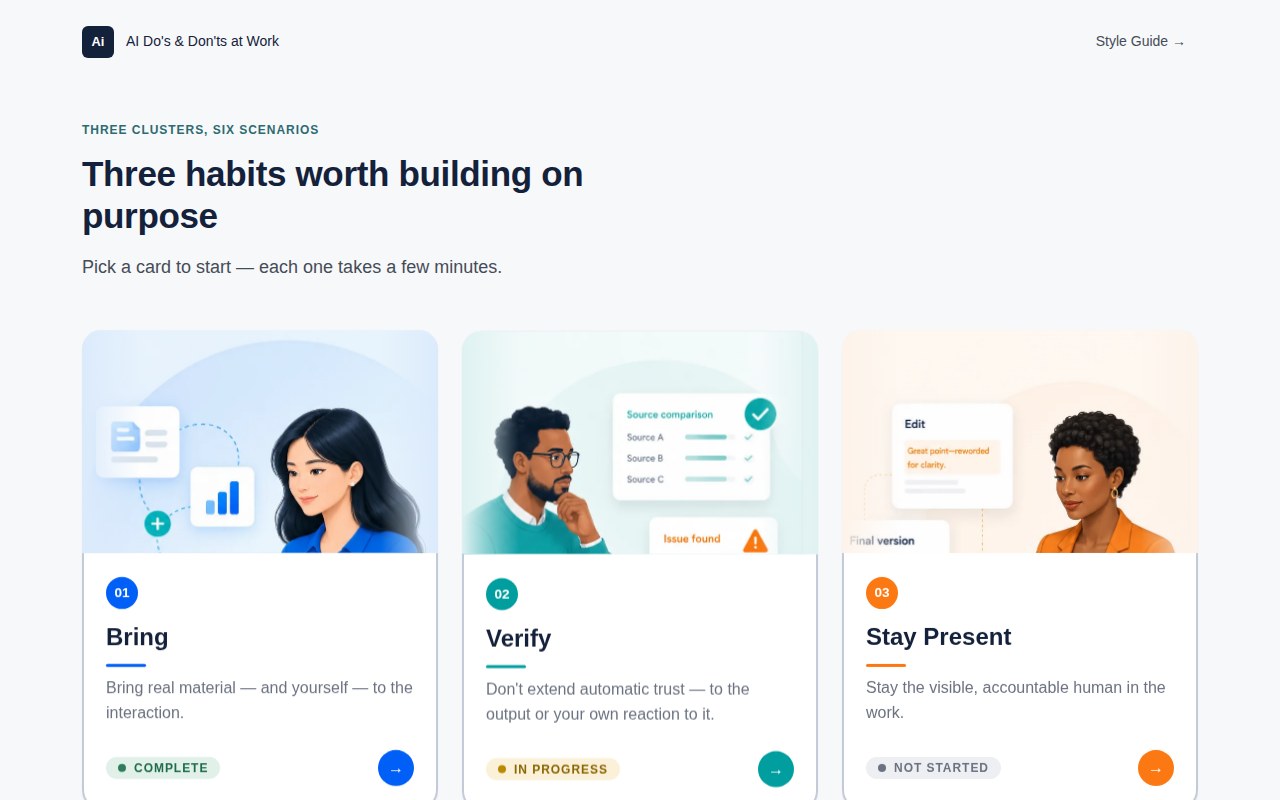
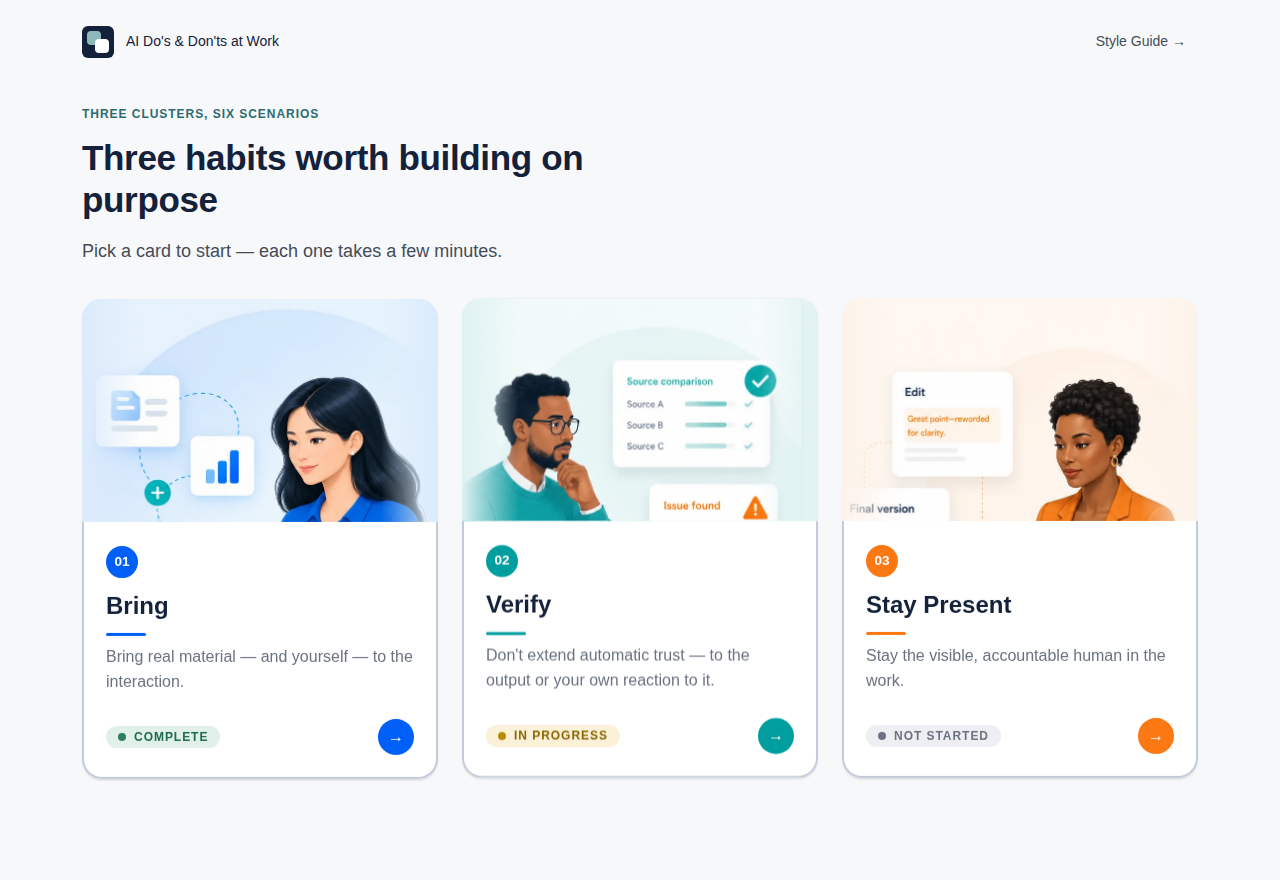
Lay the module out landscape for embedding
Seen in Rise, the module was the wrong shape for its frame. Every screen
stacked its illustration above its copy, so at 1100x700 the info beat ran
1415px and more than a whole frame of it sat below the fold — each screen
opened already scrolled.

Above 900px the illustration moves beside the copy instead of above it, so
the two share the height rather than adding to it. Done with grid on the
view itself rather than by rearranging the markup, so DOM order stays the
reading order; below 900px nothing changes.

With the rhythm compressed to match a fixed frame — trailing padding, the
gaps between blocks, and one step off the shared answer/point card padding —
every screen now fits 1100x880 with nothing cut off:

              stacked   landscape
  cover          777       880 (fills)
  overview       846       880 (fills)
  info beat     1415       880
  scenario      1280       880
  + feedback    1459       880

A floor at the frame height also stops the card changing shape from screen
to screen, so the screens read as fixed slides rather than as cards that end
wherever their copy runs out.

Style-guide screenshots re-shot in the new layout.

Claude-Session: https://claude.ai/code/session_01GgfYmkSCdz6Ee33Nn8AJpV

diff --git a/css/styles.css b/css/styles.css
@@ -740,3 +740,120 @@ a.brand:focus-visible { outline: none; box-shadow: var(--shadow-focus); border-r
 .callout.accent .callout-icon { background: var(--color-sage-600); }
 
 /* ---- Motion helpers ---- */
+
+/* ==========================================================================
+   Landscape
+   Embedded — in Rise, or any iframe — the frame is wide and short, and these
+   screens stacked are the wrong shape for it: at 1100x700 the info beat ran
+   1415px, so more than a whole frame of it sat below the fold and every
+   screen opened on a scroll.
+
+   Side by side, the illustration and the copy share the height instead of
+   adding to it. Done with grid on the view itself rather than by rearranging
+   the markup, so the DOM order stays the reading order for anyone using a
+   screen reader or arriving with CSS off.
+
+   Scoped to .is-active because views are shown and hidden with display, and
+   a bare .info-beat { display: grid } would light up all three at once.
+   ========================================================================== */
+@media (min-width: 900px) {
+  /* the column can afford to be wider once the art is beside it, not under it */
+  .section-inner { max-width: 1100px; }
+
+  /* Fill the frame. Sized to content, each screen ended wherever its copy ran
+     out — the completion screen closed 200px above the fold while the info
+     beat ran past it, so the card visibly changed shape from screen to
+     screen. A floor at the frame height makes them read as fixed slides;
+     anything taller still grows past it and scrolls.
+     Scoped to the expanded section: a collapsed .card-section holds one of
+     these too, and a floor there would blow out the overview grid. */
+  .card.is-expanded .section-inner { min-height: calc(100vh - 2 * var(--space-6)); }
+  /* .card-section carries min-height:100% for the stacked layout. Left on, it
+     stacks with the floor above: the inner's 24px top margin collapses out
+     through the section (no padding or border to stop it), offsetting a box
+     that is still a full frame tall, so every screen overflowed by exactly
+     that margin. The inner sets the height here, so the section doesn't. */
+  .card.is-expanded .card-section { min-height: 0; }
+
+  .section-content.is-active.info-beat,
+  .section-content.is-active.scenario,
+  .section-content.is-active.section-complete,
+  .cover-inner {
+    display: grid;
+    grid-template-columns: minmax(0, 1fr) minmax(0, 34%);
+    column-gap: var(--space-12);
+    align-content: start;
+  }
+  /* everything is copy except the illustration */
+  .section-content.is-active.info-beat > *,
+  .section-content.is-active.scenario > *,
+  .section-content.is-active.section-complete > *,
+  .cover-inner > * { grid-column: 1; }
+
+  .section-content.is-active.info-beat > .banner-wrap,
+  .section-content.is-active.scenario > .banner-wrap,
+  .section-content.is-active.section-complete > .banner-wrap,
+  .cover-inner > .cover-art {
+    grid-column: 2;
+    /* `1 / -1` does NOT do what it looks like here. -1 counts back from the
+       end of the EXPLICIT grid, and these grids declare columns only, so it
+       resolved to row 1 and the illustration sat in the first row alone —
+       forcing that row to the illustration's full height and stretching the
+       scenario's meta row to 432px to match. An explicit span reaches across
+       the implicit rows the copy actually creates; the extras collapse to
+       zero. */
+    grid-row: 1 / span 99;
+    align-self: center;
+    /* margin:0, not just the block margins. .banner-wrap centres itself with
+       `margin: 0 auto`, and auto side-margins on a grid item size it to its
+       content — which container-type: inline-size defines as zero. Left in,
+       the illustration collapsed to 0x0 and the column rendered empty. */
+    margin: 0;
+    width: 100%;
+  }
+
+  /* the completion screen centres itself when it is a single column; beside
+     an illustration that reads as a stray indent, so it left-aligns like the
+     other two */
+  .section-content.is-active.section-complete { text-align: left; padding-top: var(--space-12); }
+  .section-content.is-active.section-complete .badge-check { margin-left: 0; }
+  .section-content.is-active.section-complete .actions { justify-content: flex-start; }
+
+  /* A button sized itself to its label as a block-flow child; as a grid item
+     it stretches to the track, and "Start the scenarios" turned into a 604px
+     full-bleed bar. Only the info beat's CTA is a direct child — the other
+     two views wrap theirs in a flex .actions row, which already sizes them. */
+  .section-content.is-active > .btn { justify-self: start; }
+
+  .cover-inner { max-width: 1040px; text-align: left; align-content: center; }
+  .cover-inner > .cover-art { max-width: none; }
+  .cover-actions { justify-content: flex-start; }
+
+  /* Vertical rhythm, compressed.
+     Stacked, these gaps are spent out of a scroll that has more where that
+     came from. In a fixed frame they are the difference between a screen
+     that lands and a screen that opens already cut off: the info beat spends
+     152px on the margins between its six blocks alone. Every value here is
+     one or two steps down the existing space scale rather than a new number,
+     so the rhythm compresses without changing proportion. */
+  .section-inner {
+    padding-bottom: var(--space-8);
+    /* The answer/point card padding, one step down. Both objects read off
+       this same token by design, so it keeps them identical to each other
+       while taking ~8px off each of the four options and the four point
+       cards — the two blocks that decide whether the scenario and the info
+       beat land inside the frame. */
+    --answer-pad-y: 0.8rem;
+  }
+  .section-topbar { margin-bottom: var(--space-6); }
+  .info-beat .h1 { margin-bottom: var(--space-4); }
+  .info-beat .point-list { margin-top: var(--space-6); }
+  .info-beat .start-cta { margin-top: var(--space-6); }
+  .scenario-meta { margin-bottom: var(--space-4); }
+
+  /* The overview is already side-by-side, so it needs no restructuring — just
+     the same rhythm treatment. 96px of trailing padding under the cards was
+     sized for a page that scrolls past it, not a frame that has to hold it. */
+  .landing { padding-top: var(--space-4); padding-bottom: var(--space-12); }
+  .landing-intro { margin-bottom: var(--space-8); }
+}
